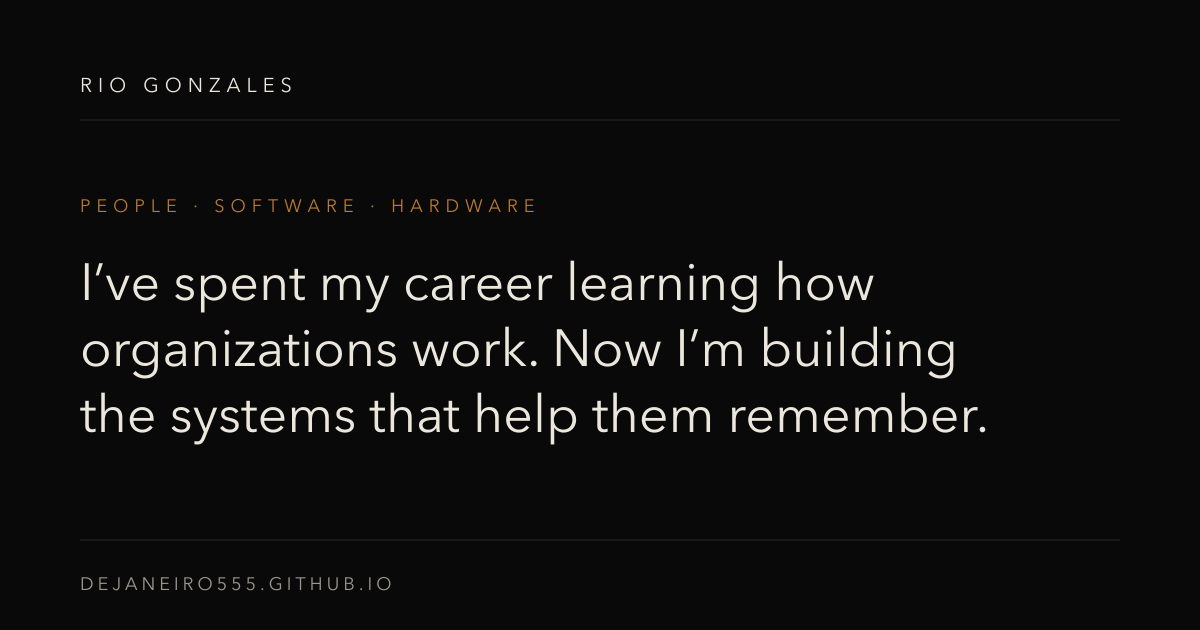
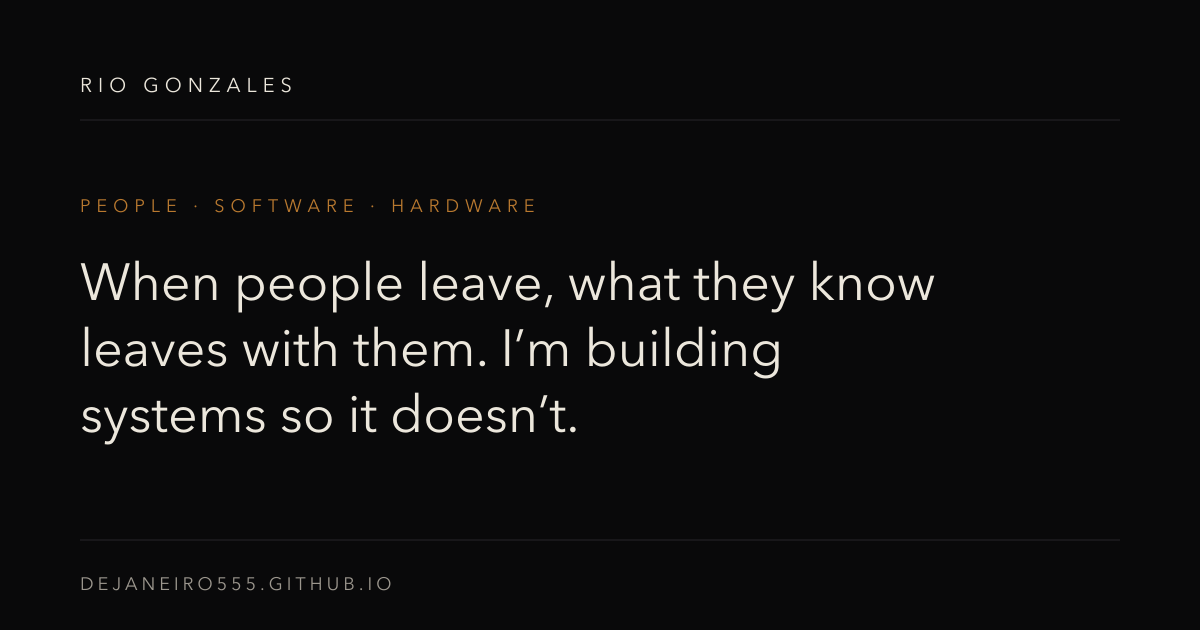
feat: unify messaging around people, software and hardware
Remove the Care Navigator case study; the site now focuses on
Perpetuity Machine, mini-perpetuity and HR Command Center.

Changed region(s): [[0.0617, 0.4222, 0.8017, 0.6032], [0.0617, 0.6333, 0.8325, 0.6937]]

diff --git a/src/content/projects/perpetuity-machine.md b/src/content/projects/perpetuity-machine.md
@@ -14,11 +14,13 @@ The idea at its center: models are interchangeable, and the memory is the part t
 
 ## Why I'm building it
 
-I've worked in HR at four organizations and talked with people at many more. One problem followed me through every role and every conversation: people want to understand their role and how to do their best work, and organizations rarely have a reliable way to give them that.
+Humans became as capable as we are because we learned to pass knowledge on. Organizations are still bad at it. When someone leaves, what they knew usually leaves with them, because nobody had time to write it down.
 
-Compensation is the comparatively simple part. It comes down to allocation and budgeting. Training and development is harder. It involves every person, function, department and manager, and it differs for each organization and industry. In my experience it gets left to managers and teams to figure out, and they end up feeling lost, overloaded and unsupported.
+I've worked in HR at four organizations and saw the same thing in every one. People want to understand their role and how to do their best work. Training and development gets left to managers and teams, and they end up feeling lost, overloaded and unsupported.
 
-That thought is what led me here. An organization that reliably remembers what it knows and what it has done, with the evidence behind it, can support its people far better. And when someone turns out not to be the right fit, it can show that they were given the best support possible.
+Perpetuity Machine is meant to preserve that knowledge for the team: record work as it happens, remember it, and return it to a shared knowledge base. Procedures can be drafted from that record and approved by people. New hires and AI agents can then learn from the real work, so they get up to speed faster and the pressure on managers and teammates drops.
+
+This is about preserving knowledge, not monitoring people. Security and permissions come first, and people decide what becomes official.
 
 ## Where it stands
 
